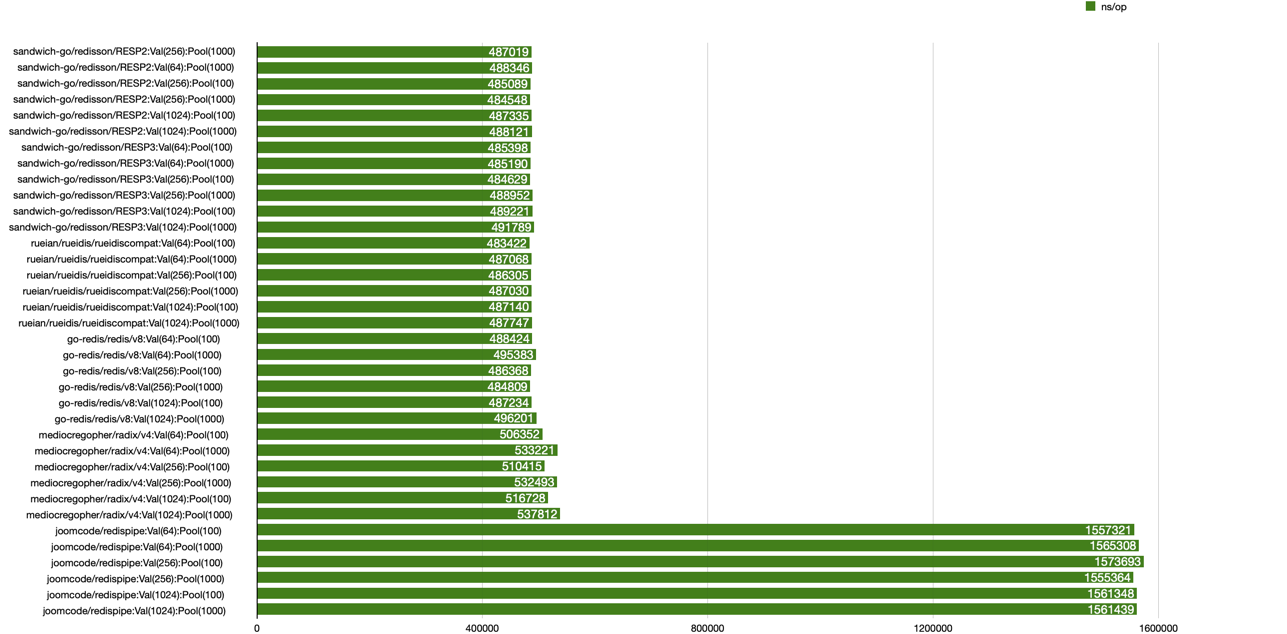
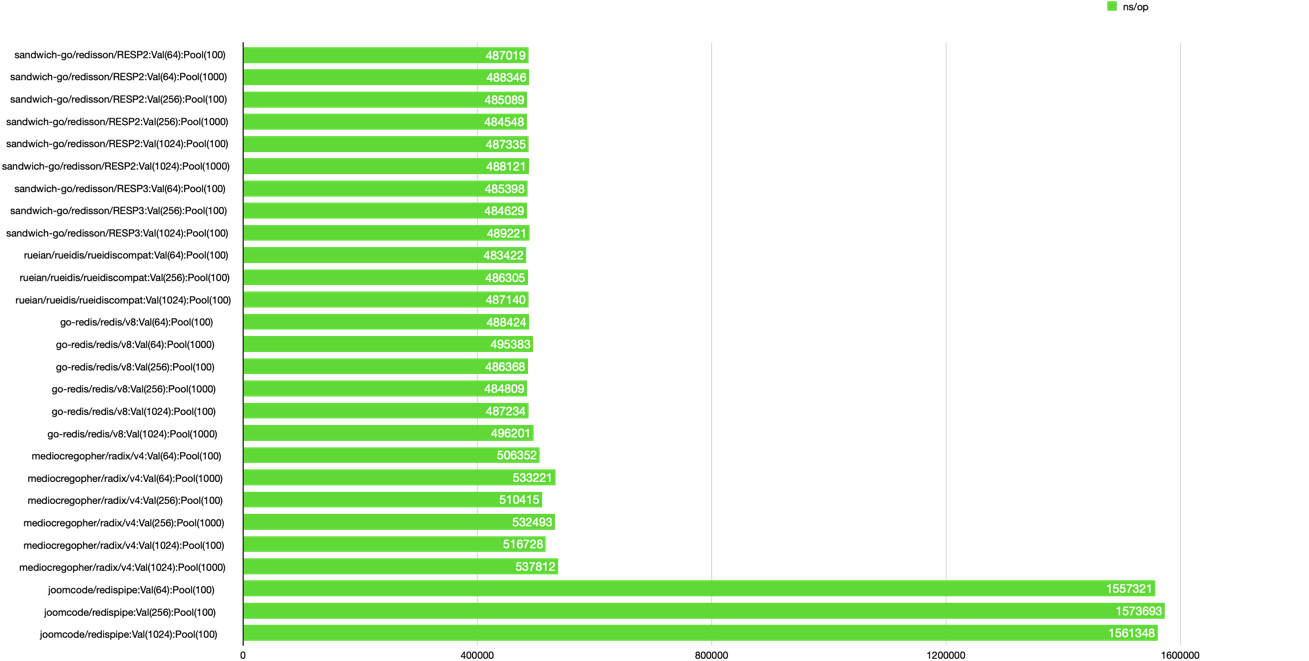
readme

diff --git a/README.md b/README.md
@@ -29,17 +29,11 @@ Run benchmark using serial and parallel mode.
 | sandwich-go/redisson/RESP2:Val(1024):Pool(100)    | 4929      | 487335   | 1348  |       6   |
 | sandwich-go/redisson/RESP2:Val(1024):Pool(1000)   | 4933      | 488121   | 1348  |       6   |
 | sandwich-go/redisson/RESP3:Val(64):Pool(100)      | 4958      | 485398   | 320   |       4   |
-| sandwich-go/redisson/RESP3:Val(64):Pool(1000)     | 4935      | 485190   | 320   |       4   |
 | sandwich-go/redisson/RESP3:Val(256):Pool(100)     | 4966      | 484629   | 512   |       4   |
-| sandwich-go/redisson/RESP3:Val(256):Pool(1000)    | 4939      | 488952   | 512   |       4   |
 | sandwich-go/redisson/RESP3:Val(1024):Pool(100)    | 4954      | 489221   | 1280  |       4   |
-| sandwich-go/redisson/RESP3:Val(1024):Pool(1000)   | 4926      | 491789   | 1280  |       4   |
 | rueian/rueidis/rueidiscompat:Val(64):Pool(100)    | 4987      | 483422   | 256   |       4   |
-| rueian/rueidis/rueidiscompat:Val(64):Pool(1000)   | 4968      | 487068   | 256   |       4   |
 | rueian/rueidis/rueidiscompat:Val(256):Pool(100)   | 4986      | 486305   | 448   |       4   |
-| rueian/rueidis/rueidiscompat:Val(256):Pool(1000)  | 4924      | 487030   | 448   |       4   |
 | rueian/rueidis/rueidiscompat:Val(1024):Pool(100)  | 4922      | 487140   | 1216  |       4   |
-| rueian/rueidis/rueidiscompat:Val(1024):Pool(1000) | 4966      | 487747   | 1216  |       4   |
 | go-redis/redis/v8:Val(64):Pool(100)               | 4953      | 488424   | 276   |       6   |
 | go-redis/redis/v8:Val(64):Pool(1000)              | 4971      | 495383   | 276   |       6   |
 | go-redis/redis/v8:Val(256):Pool(100)              | 4981      | 486368   | 484   |       6   |
@@ -53,11 +47,8 @@ Run benchmark using serial and parallel mode.
 | mediocregopher/radix/v4:Val(1024):Pool(100)       | 4369      | 516728   | 903   |       4   |
 | mediocregopher/radix/v4:Val(1024):Pool(1000)      | 4312      | 537812   | 9222  |       37  |
 | joomcode/redispipe:Val(64):Pool(100)              | 1546      | 1557321  | 168   |       5   |
-| joomcode/redispipe:Val(64):Pool(1000)             | 1540      | 1565308  | 168   |       5   |
 | joomcode/redispipe:Val(256):Pool(100)             | 1540      | 1573693  | 376   |       5   |
-| joomcode/redispipe:Val(256):Pool(1000)            | 1526      | 1555364  | 376   |       5   |
 | joomcode/redispipe:Val(1024):Pool(100)            | 1534      | 1561348  | 1240  |       5   |
-| joomcode/redispipe:Val(1024):Pool(1000)           | 1532      | 1561439  | 1240  |       5   |
 +---------------------------------------------------+-----------+----------+-------+-----------+ 
 ```
 
